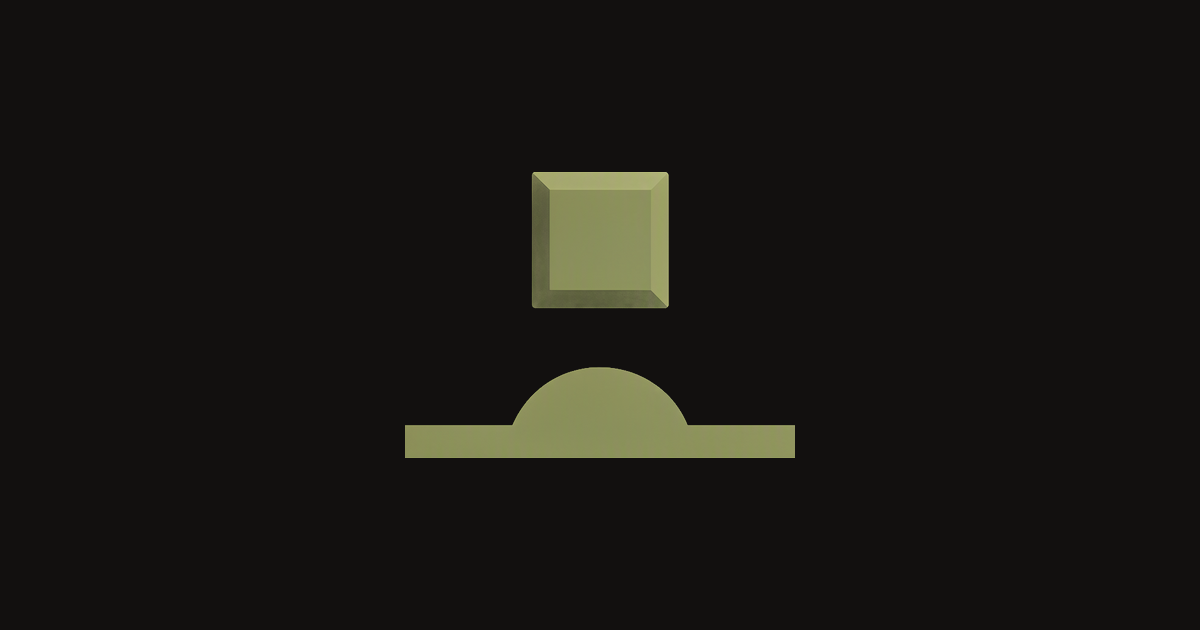
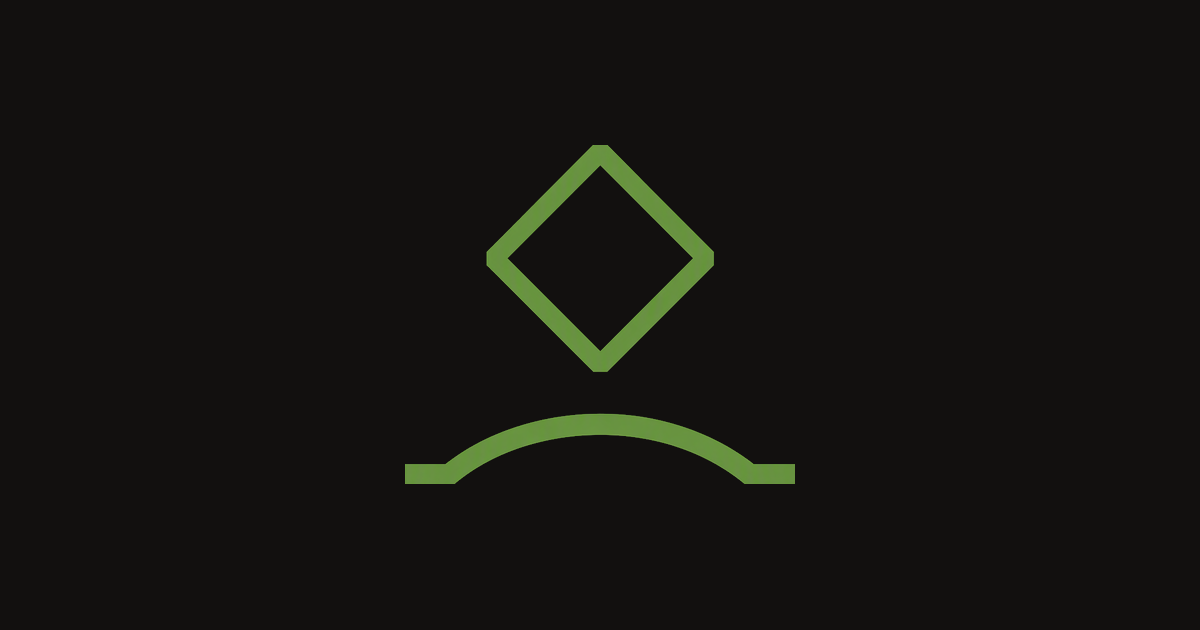
fix(chrome): ship the reference set, not the one it replaced
micro-tessera-assets promoted gpt-image-2 to the reference set on 2026-08-16
(b4f276a), regenerating all five chrome files. public/ kept the FLUX cut, so
this bundle served art the asset repository no longer publishes — five files,
every one of them stale, and no symptom at all: a favicon from the previous
reference set still looks like a favicon.

What said so was the pin-against-MANIFEST test at the foot of brand-chrome —
the second, independent side of the assertion — reached from micro-org#478's
cross-repo run. The bytes are re-copied and the digests re-read from
MANIFEST.json in the same commit, which is the only order in which either half
means anything.

Changed region(s): [[0.3392, 0.2111, 0.6783, 0.7841]]

diff --git a/test/brand-chrome.test.ts b/test/brand-chrome.test.ts
@@ -80,12 +80,23 @@ interface Shipped {
  * size a scraper rejects anything else for", so it was built to be this tag. The scene card is
  * marketing, and marketing is not this bundle's job. Recorded because it is a decision between two
  * correct-looking files, and the next reader will otherwise think the other one was overlooked.
+ *
+ * ── THE DIGESTS MOVED ONCE, ON 2026-08-17, AND THAT IS THE WHOLE POINT OF THEM ────────────────
+ *
+ * micro-tessera-assets promoted gpt-image-2 to the reference set (b4f276a, 2026-08-16), which
+ * regenerated all five of these. `public/` still held the FLUX cut, so this bundle was serving art
+ * the asset repository no longer publishes — a divergence with no visible symptom, since a favicon
+ * from the previous reference set looks like a favicon. The last test in this file is what said
+ * so, out of micro-org#478's cross-repo run. Both sides were then moved together: the bytes were
+ * re-copied from `assets/chrome/` and these pins re-read from MANIFEST.json. Re-pinning WITHOUT
+ * re-copying is the failure this file exists to prevent, and the reverse — copying without
+ * re-pinning — fails the first pin test rather than passing quietly.
  */
 const SHIPPED: readonly Shipped[] = [
   {
     file: 'favicon-32x32.png',
     source: 'assets/chrome/favicon-32-32x32.png',
[2 lines of base64/hex data omitted]
     width: 32,
     height: 32,
     linked: true,
@@ -93,7 +104,7 @@ const SHIPPED: readonly Shipped[] = [
   {
     file: 'favicon-192x192.png',
     source: 'assets/chrome/favicon-192-192x192.png',
[2 lines of base64/hex data omitted]
     width: 192,
     height: 192,
     linked: true,
@@ -101,7 +112,7 @@ const SHIPPED: readonly Shipped[] = [
   {
     file: 'favicon-512x512.png',
     source: 'assets/chrome/favicon-512-512x512.png',
[2 lines of base64/hex data omitted]
     width: 512,
     height: 512,
     linked: true,
@@ -112,7 +123,7 @@ const SHIPPED: readonly Shipped[] = [
     // title, so iOS is handed the size it actually asks for instead of resampling.
     file: 'apple-touch-icon-180x180.png',
     source: 'assets/chrome/apple-touch-180-180x180.png',
[2 lines of base64/hex data omitted]
     width: 180,
     height: 180,
     linked: true,
@@ -120,7 +131,7 @@ const SHIPPED: readonly Shipped[] = [
   {
     file: 'og-1200x630.png',
     source: 'assets/chrome/og-title-1200x630.png',
[2 lines of base64/hex data omitted]
     width: 1200,
     height: 630,
     linked: false,
